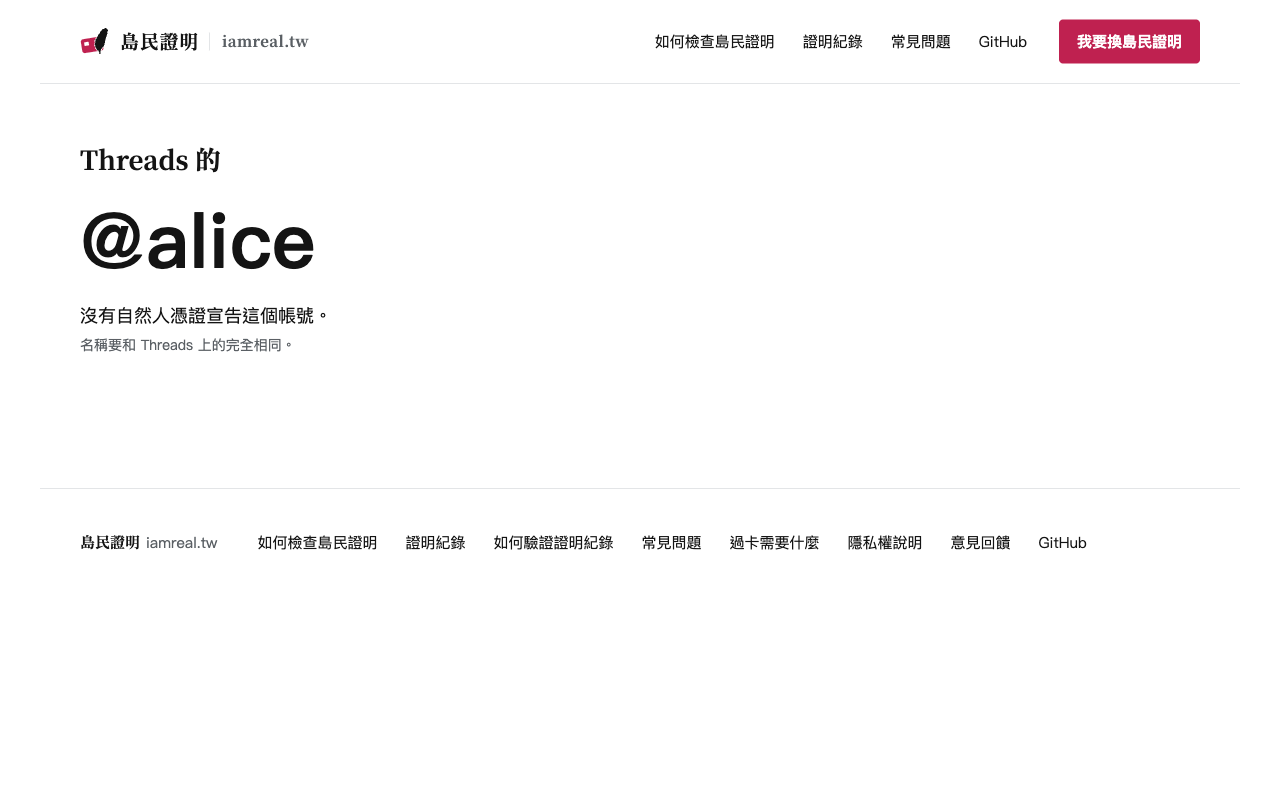
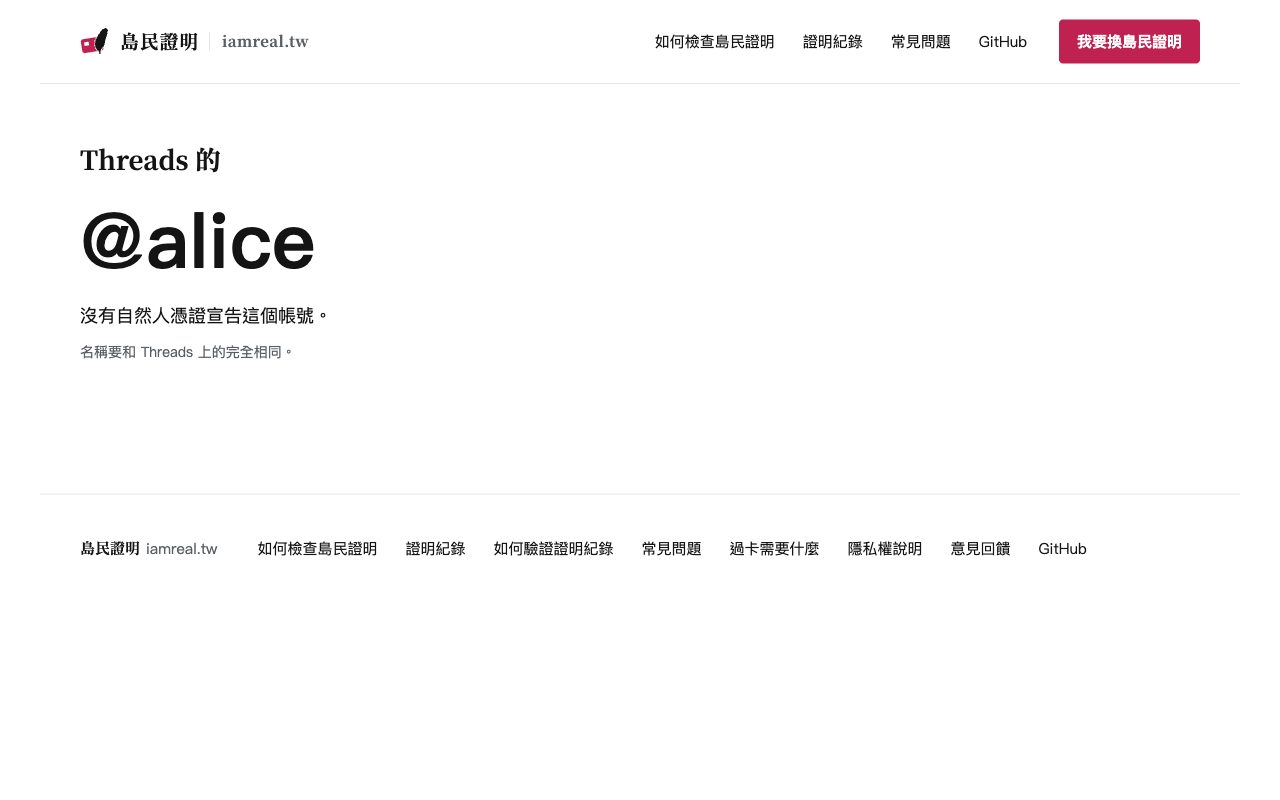
審查的修正：沒有卡片時張數下面那句的間距、測試確認拿掉的句子不在頁面上、合併重複的 CSS、清單的 class 改名

Changed region(s): [[0.0625, 0.6562, 0.8438, 0.7188], [0.0625, 0.4062, 0.2188, 0.4688]]

diff --git a/worker/site/pages.css b/worker/site/pages.css
@@ -3633,23 +3633,17 @@ body.check .three p {
 
 /* The page of a card (proof-page.md) and the page of an account (account-page.md) ---------------------- */
 
-/* Two columns, the same on both pages. */
+/* Two columns, the same on both pages: the account and the profile on the left; on the right, from the height of the
+   left column, what only grows: the record of a card (proof-page.md, section 3), the list of the cards of an account
+   (account-page.md). It grows down the right column and pushes nothing. A withdrawn card has no profile. */
 body.proof .first,
 body.account .first {
   display: grid;
   grid-template-columns: minmax(0, 1.2fr) minmax(0, 1fr);
-  gap: var(--column-gap);
+  grid-template-rows: auto 1fr;
+  gap: 40px var(--column-gap);
   align-items: start;
   margin-top: 56px;
-}
-
-/* The account and the profile on the left; on the right, from the height of the left column, what only grows: the
-   record of a card (proof-page.md, section 3), the list of the cards of an account (account-page.md). It grows down the
-   right column and pushes nothing. A withdrawn card has no profile. */
-body.proof .first,
-body.account .first {
-  grid-template-rows: auto 1fr;
-  row-gap: 40px;
 }
 
 body.proof .first .claim,
@@ -3665,7 +3659,7 @@ body.account .first .owner {
 }
 
 body.proof .first .last,
-body.account .first .cards-of {
+body.account .first .card-list {
   grid-column: 2;
   grid-row: 1 / span 2;
 }
@@ -3744,18 +3738,13 @@ body.proof .last .yours {
   margin: 4px 0 0;
 }
 
-/* The heading above the profile, on both pages; the address right above the profile. */
+/* The heading above the profile, on both pages: one line when it fits; otherwise broken at its comma or a space, never
+   inside a word (proof-page.md, section 2; account-page.md). */
 body.proof .ask,
 body.account .ask {
   font-size: var(--size-lead);
   line-height: var(--leading-h3);
-  margin: 0 0 6px;
-}
-
-/* One line when it fits; otherwise broken at its comma or a space, never inside a word (proof-page.md, section 2; account-page.md). */
-body.proof .ask,
-body.account .ask {
-  margin-bottom: 12px;
+  margin: 0 0 12px;
   word-break: keep-all;
   overflow-wrap: anywhere;
   text-wrap: balance;
@@ -3843,8 +3832,8 @@ body.account .count {
   color: var(--ink);
 }
 
-/* Right under the count, the sentence that goes with it (principles.md, 查詢頁); broken at its comma, not inside a word. */
-body.account .claim .small {
+/* Right under the count, the sentence that goes with it (principles.md, 查詢頁; with no card, the line on the name); broken at its comma, not inside a word. */
+body.account .count + .small {
   max-width: var(--measure);
   margin-top: 8px;
   line-height: var(--leading-small);
@@ -3896,6 +3885,7 @@ body.account main > .lookup {
 }
 
 body.account .lookup > p,
+body.account .claim > p,
 body.proof-missing .missing p,
 body.account-not-a-name .missing p {
   max-width: var(--measure);
@@ -4213,15 +4203,11 @@ body.account-not-a-name .title {
     padding-bottom: 24px;
   }
 
-  body.proof .first,
-  body.account .first {
-    grid-template-columns: minmax(0, 1fr);
-  }
-
   /* On a phone one under another, in this order: the account, the profile, then what only grows, so that it pushes
      nothing down (proof-page.md, account-page.md). */
   body.proof .first,
   body.account .first {
+    grid-template-columns: minmax(0, 1fr);
     grid-template-rows: none;
     gap: 28px;
   }
@@ -4231,7 +4217,7 @@ body.account-not-a-name .title {
   body.proof .first .last,
   body.account .first .claim,
   body.account .first .owner,
-  body.account .first .cards-of {
+  body.account .first .card-list {
     grid-column: 1;
     grid-row: auto;
   }

diff --git a/worker/test/lookup-pages.test.ts b/worker/test/lookup-pages.test.ts
@@ -72,6 +72,8 @@ describe("the page of an account", () => {
     const { page } = await getPage(worker, "/threads/@alice");
     wantLines(page, copyLines(block("account-page.md", "2. ", 0)));
     wantEmbed(page, "alice");
+    // Gone with the layout of the page of a card: the owner's question and the line on the scoped IDs.
+    notOnPage(page, "帳號主人承認的是哪一張", "每張自然人憑證對應到唯一的島民編號");
   });
 
   test("a last card proof today is written 今天", async () => {

diff --git a/worker/src/pages/account.ts b/worker/src/pages/account.ts
@@ -39,7 +39,7 @@ ${heading}
 <h2 class="ask">${profileLink(username)}上有哪一張的連結，才代表 @${username} 承認那一張。</h2>
 ${embed(username)}
 </section>
-<section class="cards-of">
+<section class="card-list">
 <ul class="cards">
 ${cards.map(
   (c, i) =>
